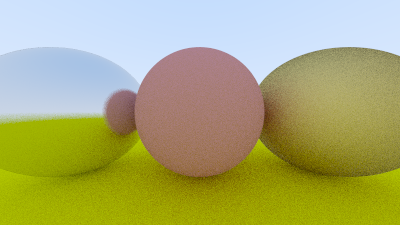
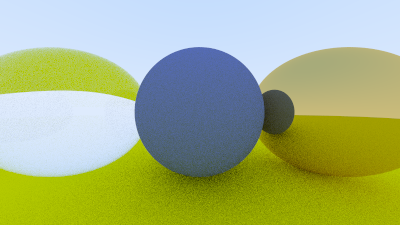
Impl Dielectric: Snell and Schlick's Approx.

diff --git a/src/headers/base/camera.h b/src/headers/base/camera.h
@@ -66,34 +66,11 @@ public:
 			renderRowSegments(0, imageHeightPixels, mainWorld);
 		}
 
-		// Write to image file.
-		std::ofstream outPPM("image.ppm");
-		if (!outPPM)
-		{
-			std::cerr << "Error: Could not open output image." << std::endl;
-			return;
-		}
-		outPPM << "P3\n" << imageWidthPixels << " " << imageHeightPixels << "\n255\n";
-		for (const auto& pixel : pixelBuffer)
-		{
-			outPPM << pixel.getX() << " " << pixel.getY() << " " << pixel.getZ() << "\n";
-		}
-		outPPM.close();
-		auto logTimeEnd = std::chrono::high_resolution_clock::now();
+		bool retFlag;
+		handlePostRenderImageUtils(retFlag);
+		if (retFlag) return;
 
-		// Using ImageMagick CLI to convert to PNG and delete PPM.
-		bool failConvertPPM_PNG = std::system("magick convert image.ppm render.png");
-		if (failConvertPPM_PNG)
-		{
-			std::cerr << "Error: PPM to PNG conversion failed!\n";
-			return;
-		}
-		bool failDeletePPM = static_cast<bool>(std::system("del image.ppm"));
-		if (failDeletePPM)
-		{
-			std::cerr << "Error: Conversion to PNG succesful, but PPM deletion failed!\n";
-			return;
-		}
+		auto logTimeEnd = std::chrono::high_resolution_clock::now();
 
 		UPrintSuccessLog(logTimeStart, logTimeEnd, imageWidthPixels * imageHeightPixels, jitterSamplesAA, useMT, maxRayBouncesDepth);
 
@@ -198,4 +175,41 @@ private:
 	{
 		return Vec3(std::pow(linearColorComp.getX(), 1 / 2.2f), std::pow(linearColorComp.getY(), 1 / 2.2f), std::pow(linearColorComp.getZ(), 1 / 2.2f));
 	}
+
+	void handlePostRenderImageUtils(bool& retFlag)
+	{
+		retFlag = true;
+		// Write to image file.
+		std::ofstream outPPM("image.ppm");
+		if (!outPPM)
+		{
+			std::cerr << "Error: Could not open output image." << std::endl;
+			return;
+		}
+		outPPM << "P3\n" << imageWidthPixels << " " << imageHeightPixels << "\n255\n";
+		for (const auto& pixel : pixelBuffer)
+		{
+			outPPM << pixel.getX() << " " << pixel.getY() << " " << pixel.getZ() << "\n";
+		}
+		outPPM.close();
+
+		// Using ImageMagick CLI to convert to PNG and delete PPM.
+		bool failConvertPPM_PNG = std::system("magick convert image.ppm render.png");
+		if (failConvertPPM_PNG)
+		{
+			std::cerr << "Error: PPM to PNG conversion failed!\n";
+			return;
+		}
+		bool failDeletePPM = static_cast<bool>(std::system("del image.ppm"));
+		if (failDeletePPM)
+		{
+			std::cerr << "Error: Conversion to PNG succesful, but PPM deletion failed!\n";
+			return;
+		}
+		retFlag = false;
+	}
 };
+
+
+
+

diff --git a/src/headers/materials/dielectric.h b/src/headers/materials/dielectric.h
@@ -1,0 +1,42 @@
+#pragma once
+
+
+class MDielectric : public Material
+{
+public:
+	MDielectric(const double refInd) : refractionIndex(refInd) {}
+
+	bool handleRayScatter(const Ray& inputRay, Ray& scatteredRay, const HitRecord& hitRec, ColorVec3& colorAttenuation) const override
+	{
+		colorAttenuation = ColorVec3(1.F);
+		double refractionRatio = hitRec.frontFace ? (1.f / refractionIndex) : refractionIndex;
+		Vec3 unitDirectionVec = computeUnitVector(inputRay.getRayDirection());
+		double cosineTheta{ std::fmin(computeDotProduct(-unitDirectionVec, hitRec.hitNormalVec), 1.f) };
+		double sinTheta{ std::sqrt(1.f - (cosineTheta * cosineTheta)) };
+
+		bool cannotRefract{ (refractionRatio * sinTheta) > 1.f };
+
+
+		if (cannotRefract || computeSchlicksApproxForReflectance(cosineTheta, refractionRatio) > UGenRNGDouble())
+		{
+			scatteredRay = Ray(hitRec.hitPoint, computeReflectionDirection(unitDirectionVec, hitRec.hitNormalVec));
+		}
+		else
+		{
+			scatteredRay = Ray(hitRec.hitPoint, computeRefractionDirection(unitDirectionVec, hitRec.hitNormalVec, refractionRatio));
+		}
+
+		return true;
+	}
+
+private:
+	double refractionIndex;
+
+	static double computeSchlicksApproxForReflectance(double cosine, double refIDX)
+	{
+		double r0Coeff = (1 - refIDX) / (1 + refIDX);
+		r0Coeff = r0Coeff * r0Coeff;
+		return r0Coeff + ((1 - r0Coeff) * std::pow(1 - cosine, 5));
+	}
+
+};

diff --git a/src/main.cpp b/src/main.cpp
@@ -8,18 +8,12 @@ int main()
 	int jitterSamplesAA{ 50 };
 	int maxRayBouncesDepth{ 50 };
 
-	// Materials
-	auto materialGround = std::make_shared<MLambertian>(ColorVec3(0.8f, 0.01f, 0.5f));
-	auto materialSphere1 = std::make_shared<MMetal>(ColorVec3(0.8f, 0.8f, 0.8f), 0.1);
-	auto materialSphere2 = std::make_shared<MLambertian>(ColorVec3(0.2f, 0.3f, 0.6f));
-
-
 	// World-objects init.
 	WorldObjectList mainWorld;
 	auto material_ground = std::make_shared<MLambertian>(ColorVec3(0.8, 0.8, 0.0));
-	auto material_center = std::make_shared<MLambertian>(ColorVec3(0.7, 0.3, 0.3));
-	auto material_left = std::make_shared<MMetal>(ColorVec3(0.8, 0.8, 0.8), 0.1f);
-	auto material_right = std::make_shared<MMetal>(ColorVec3(0.8, 0.6, 0.2), 1.f);
+	auto material_center = std::make_shared<MLambertian>(ColorVec3(0.15, 0.2, 0.5));
+	auto material_left = std::make_shared<MDielectric>(1.5f);
+	auto material_right = std::make_shared<MMetal>(ColorVec3(0.8, 0.6, 0.2), 0.0);
 
 	mainWorld.addToWorld(std::make_shared<WOSphere>(PointVec3(0.0, -100.5, -1.0), 100.0, material_ground));
 	mainWorld.addToWorld(std::make_shared<WOSphere>(PointVec3(0.0, 0.0, -1.0), 0.5, material_center));

diff --git a/src/headers/base/util.h b/src/headers/base/util.h
@@ -50,12 +50,12 @@ inline double UGenRNGDouble(double minVal, double maxVal)
 	return uniDist(rngEng);
 }
 
-void UWriteToClog(const std::string& outString)
+inline void UWriteToClog(const std::string& outString)
 {
 	std::clog << outString << "\n";
 }
 
-void UWriteToCout(const std::string& outString)
+inline void UWriteToCout(const std::string& outString)
 {
 	std::cout << outString << "\n";
 }
@@ -100,7 +100,7 @@ inline void UPrintSuccessLog(
 #include "worldObjectList.h"
 #include "../world_objects/sphere.h"
 #include "material.h"
-#include "materials/lambertian.h"
-#include "materials/metal.h"
-#include "materials/dielectric.h"
+#include "../materials/lambertian.h"
+#include "../materials/metal.h"
+#include "../materials/dielectric.h"
 #include "camera.h"
